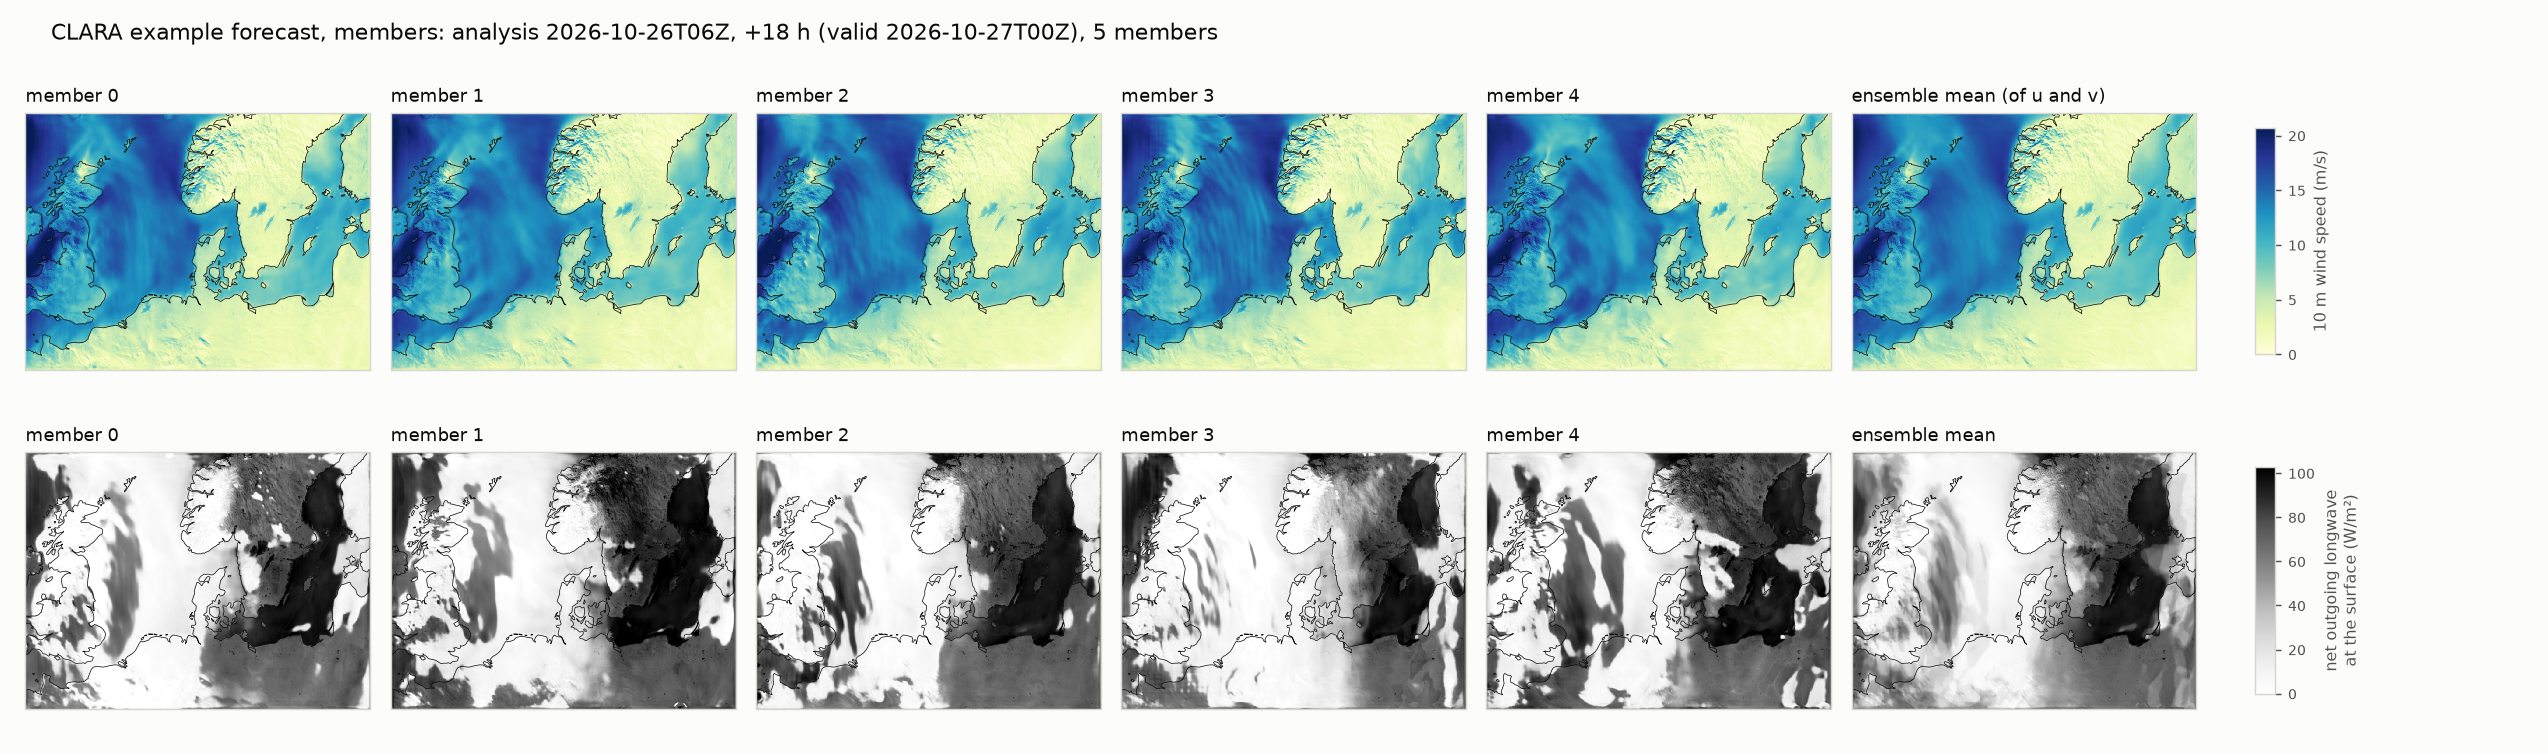
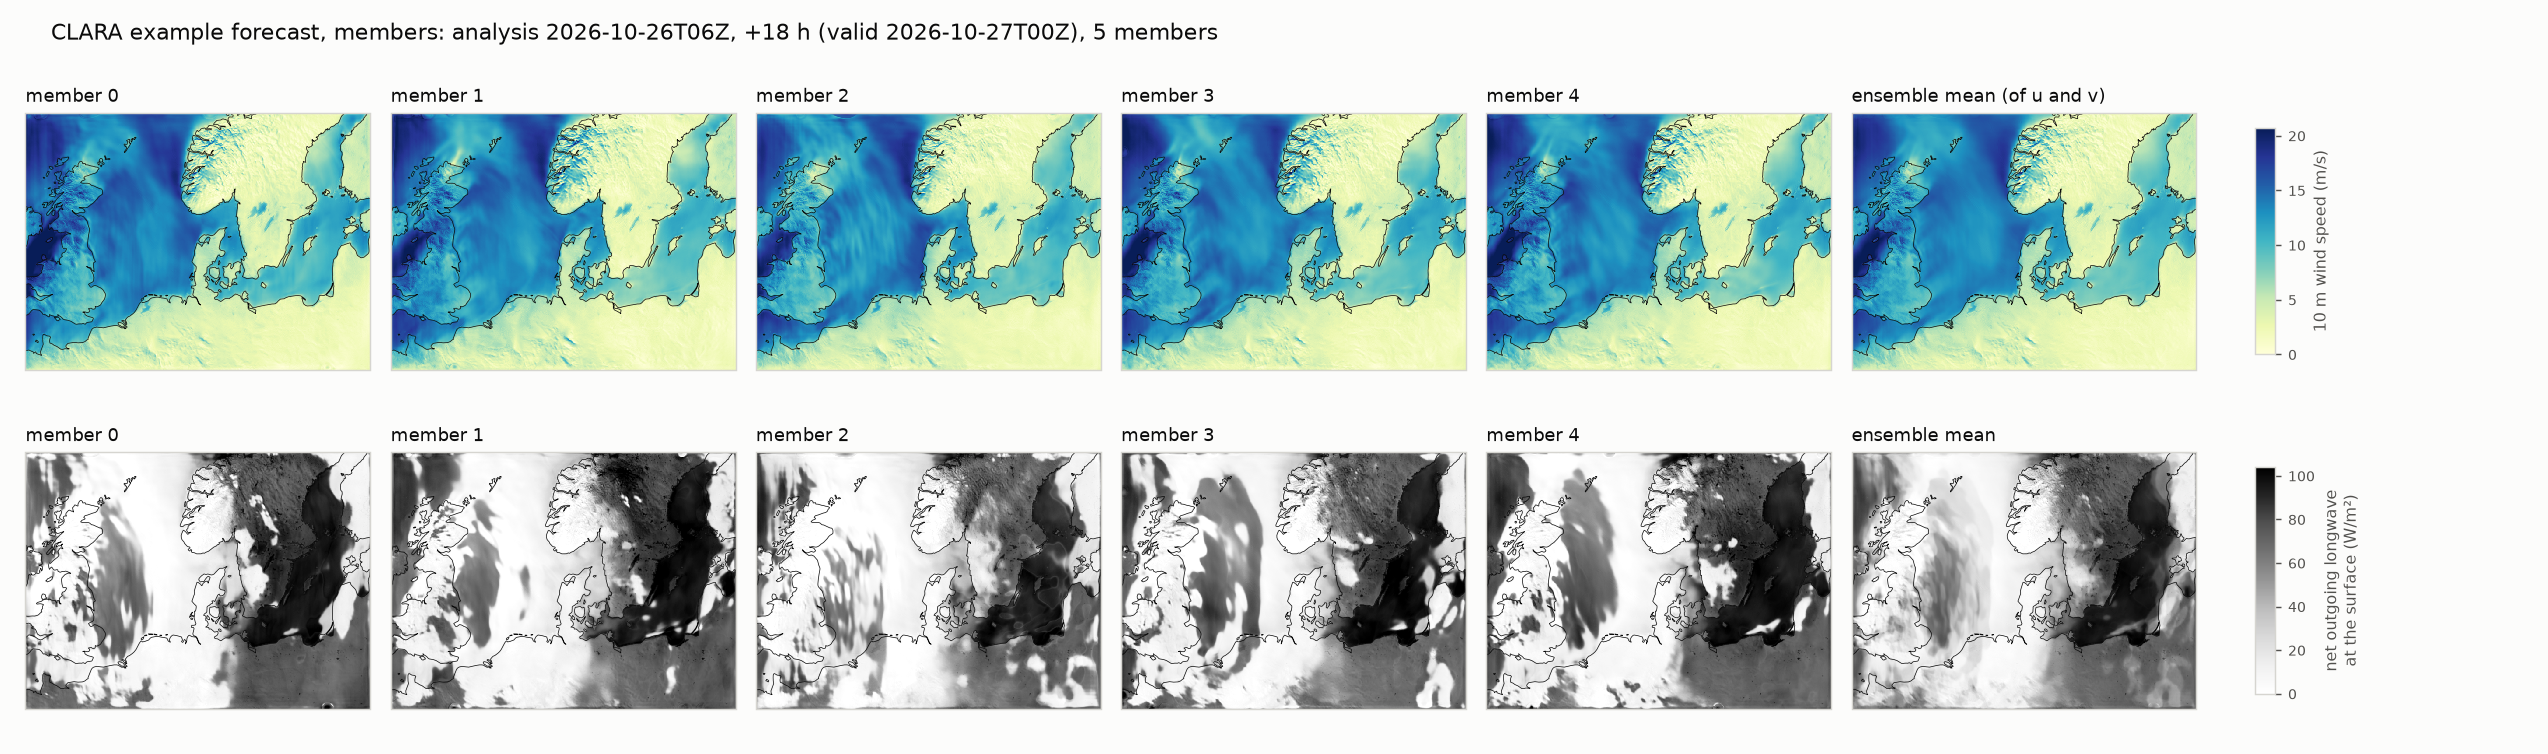
Example forecast with the exact training statistics
Rerun in the container with the artifact assembled from the exact
2016-2019 statistics (DANRA radiation fields recomputed skipping missing
values). Removes the interim-stats notes; documents the NaN skipping and
danra_stats --only-variables/--update-from.

diff --git a/PLAN.md b/PLAN.md
@@ -123,10 +123,10 @@ and the training configs in `real-prob-lam/neural-lam-dev-building-ml-lams/confi
     - It reuses `SplitStats` (now saveable to arrays, with less overlap allowed at the split start).
     - Unit tests cover single-step first blocks, lost tails and single-step sub-blocks.
   - Both tools have `--dry-run [STEPS]`, partials and resume, and retries. The server commands are in the README.
-- [~] The user runs both tools on their server (started 2026-10-28; DANRA with `--sub-block-steps 128`) and copies `stats/` back. Then:
-  - assemble without `--placeholder-stats`;
-  - rerun the example forecast and the figures;
-  - remove the interim-stats notes.
+- [x] The user ran both tools on their server and copied `stats/` back.
+  - DANRA with `--sub-block-steps 128` was OOM-killed; rerun with 64 after the memory fixes: 13 min per block, 28 GB peak, about 10 h.
+  - `lwavr0m`/`swavr0m` came out NaN: DANRA has missing values (0.009 %), which `calc_stats` (xarray) skips. The tools now skip them too; the two features were recomputed with `--only-variables`/`--update-from`.
+- [x] Artifact `artifact/build/clara-exact-stats` (+ `.zip`) assembled with the exact stats (`artifact/build/stats-final`); example forecast and figures rerun; interim-stats notes removed.
 - [x] Zenodo, as for ANNA: separate records for the checkpoint and the inference package.
   - `zenodo_draft --kind {checkpoint,package}` creates drafts only.
   - Creators are the paper authors, plus Leif Denby for the package.
@@ -175,7 +175,7 @@ and the training configs in `real-prob-lam/neural-lam-dev-building-ml-lams/confi
     - Datastores: 9 s. Forecast: 2 min 5 s. Conversion: 25 s.
   - Scores as in the uv run (other random members): t2m RMSE at +18 h 0.82 K, mslp 0.79 hPa.
   - The GB10's unified memory means `nvidia-smi` doesn't report GPU memory.
-- [x] Example forecast figures in the README (`dev-utils/plot_example_forecast.py` → `docs/clara_example_*.png`), from the run with ANNA's stats.
+- [x] Example forecast figures in the README (`dev-utils/plot_example_forecast.py` → `docs/clara_example_*.png`), from the container run with the exact stats.
 
 ## Phase 3: tests (CPU)
 
@@ -187,7 +187,7 @@ and the training configs in `real-prob-lam/neural-lam-dev-building-ml-lams/confi
 - [x] `uv run pytest`: all pass.
 - [x] The sanitized checkpoint loads with strict loading: 1,397 parameters, 0 missing, 0 mismatched.
 - [x] End-to-end mechanics on the DGX Spark: 2026-10-26T06Z +18 h, 5 members, about 2.5 min for forecast and conversion; the boundary order check passed.
-- [ ] End-to-end with the real stats: no NaNs, plausible values, spread > 0 and growing, RMSE against DINI of the size of short-range forecast differences. The placeholder-stats run diverges, as expected.
+- [x] End-to-end with the real stats (container, 2026-11-03): no NaNs, plausible values, spread > 0 and growing, RMSE against DINI of the size of short-range forecast differences. The placeholder-stats run diverges, as expected.
 - [x] Image build and container run (see Phase 2).
 
 ## Log
@@ -209,3 +209,8 @@ and the training configs in `real-prob-lam/neural-lam-dev-building-ml-lams/confi
     - In the example, 31% of `swavr0m` values are negative (night, median −4 W/m²), and `r` > 1 at 5–12% of points at 400–925 hPa.
   - Zenodo draft tool and the `model.yaml` checkpoint fields.
   - The Containerfile only sends the GitHub token to `api.github.com`; before, it was sent to any `PACKAGE_URL`.
+- 2026-11-03:
+  - Exact stats in (DANRA radiation fields recomputed NaN-skipping); no NaNs, std within ~1–5 % of ANNA's.
+  - Container run with the exact-stats artifact, 2026-10-26T06Z +18 h, 5 members. DINI for that date has left the bucket's retention, so the regridded inputs of the earlier run were reused (`--skip-completed`); forecast and conversion 169 s.
+    - Ensemble-mean RMSE against DINI at +18 h: t2m 0.78 K (0.82 with ANNA's stats), mslp 0.56 hPa (0.79), 10 m wind 1.3–1.8 m/s.
+    - `r` −0.95..2.2 and `swavr0m` down to −146 W/m² at single points, as before not clipped by default.

diff --git a/README.md b/README.md
@@ -113,8 +113,6 @@ The forecast: analysis 2026-10-26T06Z, +18 h, 5 members, run on a DGX Spark.
 - Initial states are from DINI; the boundary is IFS open data from the 00Z cycle (made with `dev-utils/make_ifs_boundary_zarr.py`).
 - It's compared with the DINI forecast from the same analysis, regridded to the DANRA grid. DINI is a forecast too, not the truth, so the RMSE shows how far apart the two models are.
 
-> **Interim statistics.** This forecast was normalised with the statistics from ANNA's artifact (`dev-utils/stats_from_anna.py`). They have the same features and are computed the same way, but over ANNA's training period (2000-01-01 → 2018-10-29). CLARA's own were computed over 2016-01-01 → 2019-10-22, as recorded in the checkpoint.
->
 > The figures show the model's unclipped outputs. Relative humidity and night-time short-wave radiation are partly outside their physical ranges, as the model doesn't constrain them; see [Post-processing](#post-processing-off-by-default).
 
 ![CLARA ensemble mean and spread of t2m, and DINI's t2m, at +18 h](docs/clara_example_t2m_mslp.png)
@@ -126,8 +124,8 @@ DANRA, and so CLARA, has no top-of-atmosphere OLR. The longwave row shows the ne
 ![Ensemble-mean RMSE against DINI and ensemble spread by lead time](docs/clara_example_scores.png)
 
 At +18 h the ensemble-mean RMSE against DINI is:
-- t2m: 0.76 K
-- mslp: 0.7 hPa
+- t2m: 0.78 K
+- mslp: 0.56 hPa
 - 10 m wind components: 1.3–1.8 m/s
 
 The ensemble spread grows with lead time and is close to the RMSE, a little below it.
@@ -176,6 +174,8 @@ Two tools compute the statistics exactly as mllam-data-prep does:
 - **mean of the first** time differences;
 - **std of the second** time differences. This is what mllam-data-prep's `calc_stats` actually computes for `diff_std`.
 
+Missing values are skipped, as xarray's `mean`/`std` in `calc_stats` do. DANRA's surface radiation fields `lwavr0m` and `swavr0m` have a few (0.009 % over the split). The share skipped per feature is logged and stored in the zarr's `missing_values_skipped` attribute.
+
 | Tool | Datastore | Source | Reads |
 |---|---|---|---|
 | [`danra_stats`](src/clara_inference/artifact/danra_stats.py) | `danra_model1_config` (interior: state, forcing, static) | DANRA v0.5.0 on the ECMWF object store | ~540 GB |
@@ -222,7 +222,19 @@ uv run python -m clara_inference.artifact.danra_stats \
 
 The resulting `stats/` directory is a few MB. Copy it back and pass it to `assemble --stats-dir` (below).
 
-Until the exact statistics are in, `dev-utils/stats_from_anna.py` makes interim ones from ANNA's artifact. They have the same features, source box and method, but ANNA's period.
+The statistics are per feature, so a few features can be recomputed on their own and merged into an existing zarr. `--only-variables` reads only those variables, and `--update-from` takes the other features from the existing zarr; the new zarr's `recomputed_features` attribute lists the replaced ones. The artifact's DANRA statistics were made this way: the radiation fields were recomputed after missing values were skipped (about 1 h instead of 10 h for all features).
+
+```bash
+uv run python -m clara_inference.artifact.danra_stats \
+    --only-variables lwavr0m,swavr0m \
+    --update-from stats/danra_model1_config.zarr \
+    --output stats/danra_model1_config.v2.zarr \
+    --partials-dir partials-danra-radiation --cache-dir danra-cache
+```
+
+`--sub-block-steps` (default 32) sets how many time steps are extracted at once. With 64, a full DANRA run took about 10 h on a 1 Gbit/s server and peaked at about 28 GB of memory.
+
+`dev-utils/stats_from_anna.py` makes approximate statistics from ANNA's artifact, with the same features, source box and method, but ANNA's period. They were used before the exact ones were available and are kept for testing only.
 
 ### Building the artifact
 
